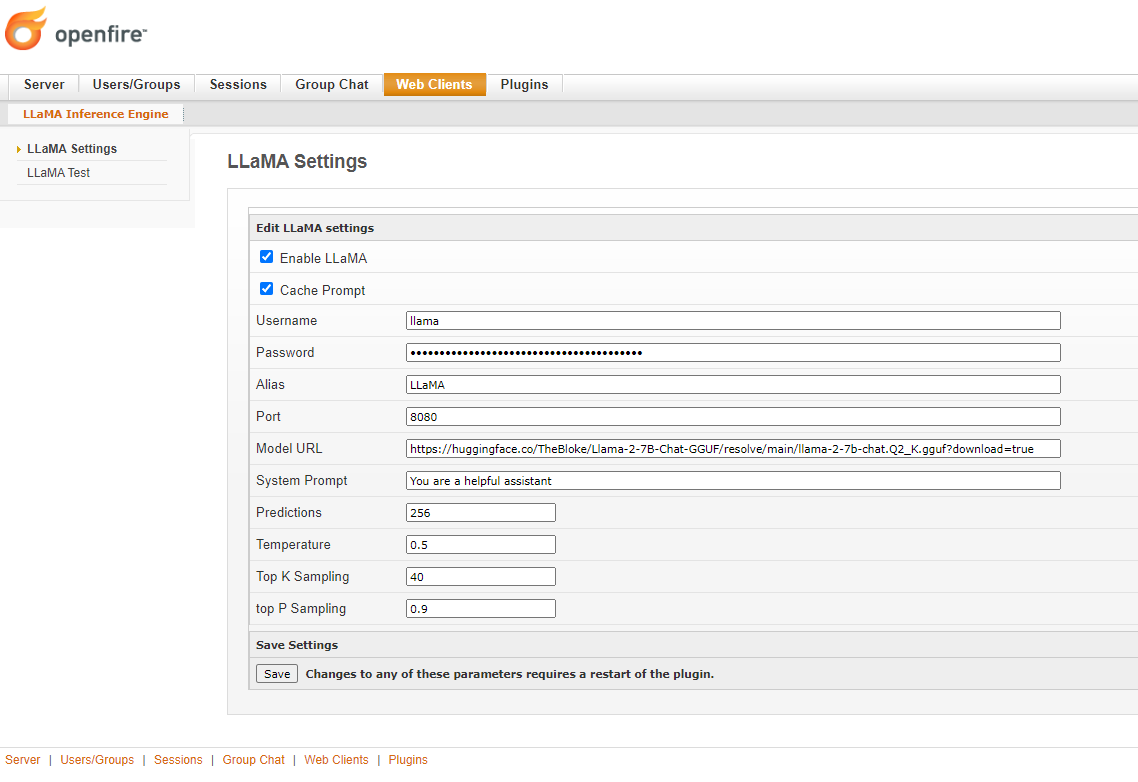
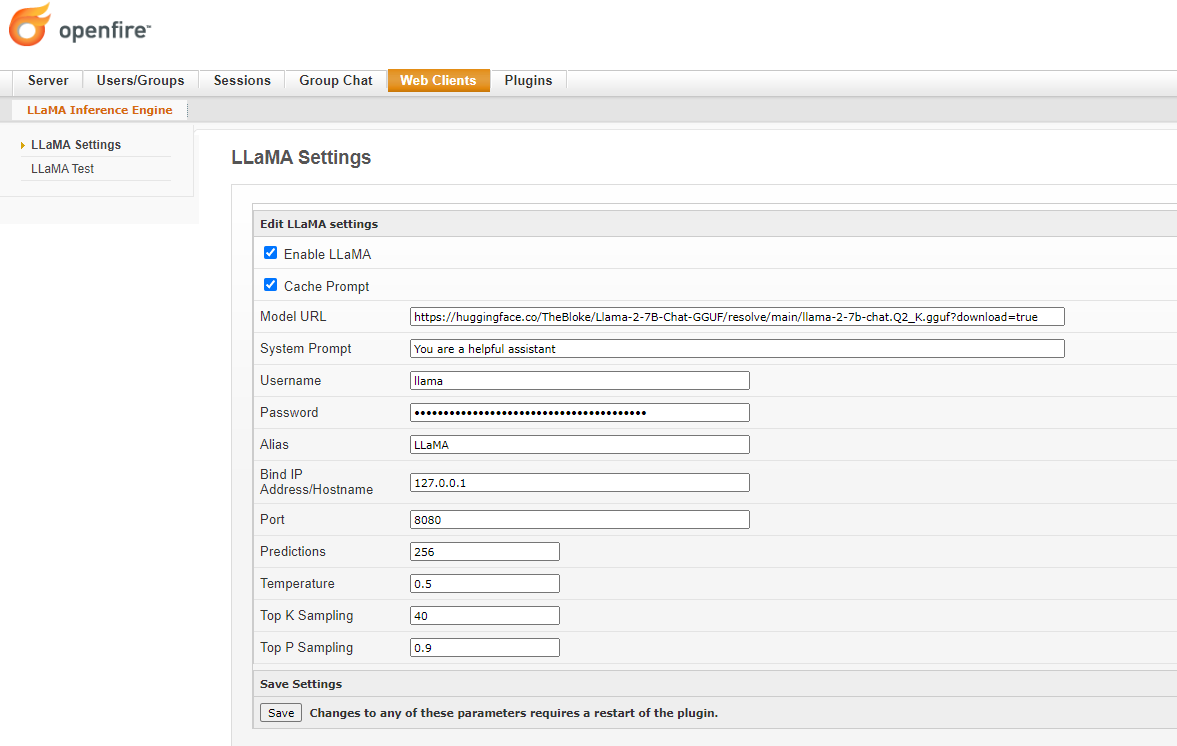
add support for hostname/ip address

Changed region(s): [[0.0, 0.185, 1.0, 0.9866], [0.0, 0.0925, 0.5228, 0.2466], [0.0, 0.0, 0.123, 0.0617]]

diff --git a/readme.html b/readme.html
@@ -22,6 +22,7 @@
 <li><a href="#installation">Installation</a></li>
 <li><a href="#configuration">Configuration</a></li>
 <li><a href="#how-to-use">How to use</a></li>
+<li><a href="#advanced-configuration">Advanced Configuration</a></li>
 </ul>
 </li>
 </ul>
@@ -49,6 +50,8 @@ This plugin is a wrapper to llama.cpp server binary. It uses the HTTP API to cre
 <p>This is Openfire username/password for the user that will act as a chatbot for LLaMA. By default the user will be “llama” and the password witll be a random string. If you are using ldap or your Openfire user manager is in read-only mode and a new user cannot be created, then you must create the user and specify the username and password here…</p>
 <h3 id="alias">Alias</h3>
 <p>Set an alias for the model. The alias will be returned in chat responses.</p>
+<h3 id="host">Bind IP Address/Hostname</h3>
+<p>Set the IP address to bind to. Default: localhost (127.0.0.1)</p>
 <h3 id="port">Port</h3>
 <p>Set the port to listen. Default: 8080</p>
 <h3 id="model-url">Model URL</h3>
@@ -66,8 +69,8 @@ The first time the plugin starts, it will download this file and cache in OPENFI
 <p>Limit the next token selection to a subset of tokens with a cumulative probability above a threshold P (default: 0.95).</p>
 <h2 id="how-to-use">How to use</h2>
 <img src="https://igniterealtime.github.io/openfire-llama-plugin/llama-test.png">
-To confirm that llama.cpp is working, use the demo web app to test.
-The plugin will create an Openfire users called llama (by default). The user can be engaged with in chat or groupchats from any XMPP client application like Spark, Converse or Conversations.
+<p>To confirm that llama.cpp is working, use the demo web app to test.</p>
+<p>The plugin will create an Openfire user called llama (by default). The user can be engaged with in chat or groupchats from any XMPP client application like Spark, Converse or Conversations.</p>
 <h3 id="chat">Chat</h3>
 <p>Add llama as a contact and start a chat conversation</p>
 <pre><code>(22:20) Seye: what are female goats called?
@@ -79,6 +82,12 @@ The plugin will create an Openfire users called llama (by default). The user can
 (22:19) LLaMA:   Oh my llama-ness! I'm so glad you asked! A radiogram (also known as a wireless gram) is an old-fashioned term for a message or telegram that is sent via radio communication.
 </code></pre>
 <p>Note that this only works with group-chats hosted in your Openfire server. Federation is not supported.</p>
+<h2 id="advanced-configuration">Advanced Configuration</h2>
+<h3 id="gguf-model-files">GGUF Model files</h3>
+<p>The gguf model files for LLaMA 2 are large 5GB+ and may take serveral minutes to download. The downloaded model file is cached as OPENFIRE_HOME/llama/llama.model.gguf.<br>
+To speed up this process, you can preload the model by copying a local file to this destination and rename accordingly before installing the plugin.</p>
+<h3 id="gpu-support">GPU Support</h3>
+<p>The plugin has generic binaries for Linux64 and Windows64 with no GPU support. In order add GPU support, build the llama.cpp server binary with the appropriate GPU configuration and replace in the OPENFIRE_HOME/plugins/llama/classes/linux-64 or OPENFIRE_HOME/plugins/llama/classes/win-64 folder after installing the plugin or replace in the source code and rebuild plugin with maven.</p>
 
     </div>
   </div>

diff --git a/changelog.html b/changelog.html
@@ -43,7 +43,7 @@
 LLaMA Plugin Changelog
 </h1>
 
-<p><b>0.0.1</b> -- November 11, 2023</p>
+<p><b>0.0.1</b> -- November 30, 2023</p>
 
 <ul>
      <li>Initial release. </li>

diff --git a/src/java/org/ifsoft/llama/openfire/LLaMA.java b/src/java/org/ifsoft/llama/openfire/LLaMA.java
@@ -80,10 +80,11 @@ public class LLaMA implements Plugin, PropertyEventListener, ProcessListener, MU
     private ExecutorService executor;
     private WebAppContext jspService;
 	private LLaMAConnection llamaConnection = null;
+	private static final String domain = XMPPServer.getInstance().getServerInfo().getXMPPDomain();
+	private static final String hostname = XMPPServer.getInstance().getServerInfo().getHostname();	
 	
     public static LLaMA self;	
-	public static int numThreads = 8;
-	private final String domain = XMPPServer.getInstance().getServerInfo().getXMPPDomain();		
+	public static int numThreads = 8;	
 	
     public void destroyPlugin() {
         PropertyEventDispatcher.removeListener(this);
@@ -143,15 +144,14 @@ public class LLaMA implements Plugin, PropertyEventListener, ProcessListener, MU
     }
 
     public static String getUrl() {
-        return "https://" + XMPPServer.getInstance().getServerInfo().getHostname() + ":" + JiveGlobals.getProperty("httpbind.port.secure", "7443");
+        return "https://" + hostname + ":" + JiveGlobals.getProperty("httpbind.port.secure", "7443");
     }
 
     public static String getIpAddress() {
-        String ourHostname = XMPPServer.getInstance().getServerInfo().getHostname();
         String ourIpAddress = "127.0.0.1";
 
         try {
-            ourIpAddress = InetAddress.getByName(ourHostname).getHostAddress();
+            ourIpAddress = InetAddress.getByName(hostname).getHostAddress();
         } catch (Exception e) {
 
         }
@@ -270,8 +270,9 @@ public class LLaMA implements Plugin, PropertyEventListener, ProcessListener, MU
             createLLaMAUser();
 						
 			try {
-				final String llamaPort = JiveGlobals.getProperty("llama.port", LLaMA.self.getPort());					
-				final String params = "-a " + alias + " -m " + filename + " -c 2048 --path . --port " + llamaPort + " -np " + numThreads;			
+				final String llamaHost = JiveGlobals.getProperty("llama.host", getIpAddress());					
+				final String llamaPort = JiveGlobals.getProperty("llama.port", LLaMA.self.getPort());				
+				final String params = "--host " + llamaHost + " -a " + alias + " -m " + filename + " -c 2048 --path . --port " + llamaPort + " -np " + numThreads;			
 				llamaThread = Spawn.startProcess(llamaExePath + " " + params, new File(llamaHomePath), this);
 				
 				Thread.sleep(1000);
@@ -331,7 +332,7 @@ public class LLaMA implements Plugin, PropertyEventListener, ProcessListener, MU
         final UserManager userManager = XMPPServer.getInstance().getUserManager();
         final String llamaUser = JiveGlobals.getProperty("llama.username", "llama");
 
-        if ( !userManager.isRegisteredUser( new JID(llamaUser + "@" + XMPPServer.getInstance().getServerInfo().getXMPPDomain()), false ) )
+        if ( !userManager.isRegisteredUser( new JID(llamaUser + "@" + domain), false ) )
         {
             Log.info( "No LLaMA user detected. Generating one." );
 

diff --git a/src/java/org/ifsoft/llama/openfire/LLaMAConnection.java b/src/java/org/ifsoft/llama/openfire/LLaMAConnection.java
@@ -54,19 +54,21 @@ public class LLaMAConnection extends VirtualConnection
     private ConnectionConfiguration configuration;	
     private ConnectionType connectionType;	
 	private String username;
+	private String port;
 	private AuthToken authToken = null;
     private LocalClientSession session;	
-	private String llamaUrl;
     private ExecutorService exec = Executors.newFixedThreadPool(LLaMA.numThreads);	
+	
 	private final String domain = XMPPServer.getInstance().getServerInfo().getXMPPDomain();
+	private final String hostname = XMPPServer.getInstance().getServerInfo().getHostname();
 
     public String remoteAddr;	
 	
 
     public LLaMAConnection(String username, String port) {
 		this.username = username;
+		this.port = port;
 		this.remoteAddr = "llama-" + System.currentTimeMillis();
-		this.llamaUrl = "http://localhost:" + port;
 		
 		try {
 			
@@ -203,7 +205,7 @@ public class LLaMAConnection extends VirtualConnection
 
 				Presence presence = new Presence();
 				presence.setTo(muc + "/" + username);	
-				presence.setFrom(username + "@" + XMPPServer.getInstance().getServerInfo().getXMPPDomain() + "/" + remoteAddr);	
+				presence.setFrom(username + "@" + domain + "/" + remoteAddr);	
 				presence.addChildElement("x", "http://jabber.org/protocol/muc");				
 				XMPPServer.getInstance().getPresenceRouter().route(presence);					
 			}
@@ -269,20 +271,21 @@ public class LLaMAConnection extends VirtualConnection
     //-------------------------------------------------------	
 
 	private void getJson(String urlToRead, JSONObject data, JID requestor, Message.Type chatType)  {
-		Log.info("getJson from LLaMA " + requestor + " " + urlToRead + "\n" + data);
-			
 		URL url;
 		HttpURLConnection conn;
 		BufferedReader rd;
 		String line;
 		StringBuilder result = new StringBuilder();
 
+		String llamaHost = JiveGlobals.getProperty("llama.host", hostname);			
 		String username = JiveGlobals.getProperty("llama.username", "llama");
 		String password = JiveGlobals.getProperty("llama.password", "llama");		
 		String auth = username + ":" + password;
 		String authHeaderValue = "Basic " + Base64.getEncoder().encodeToString(auth.getBytes(StandardCharsets.UTF_8));
-		String uri = llamaUrl + urlToRead;
-
+		String uri = "http://" + llamaHost + ":" + port + urlToRead;
+		
+		Log.info("getJson from LLaMA " + requestor + " " + uri + "\n" + data);
+		
 		try {
 			url = new URL(uri);
 			conn = (HttpURLConnection) url.openConnection();

diff --git a/README.md b/README.md
@@ -29,6 +29,9 @@ This is Openfire username/password for the user that will act as a chatbot for L
 ### Alias
 Set an alias for the model. The alias will be returned in chat responses.
 
+### Bind IP Address/Hostname
+Set the IP address to bind to. Default: localhost (127.0.0.1)
+
 ### Port
 Set the port to listen. Default: 8080
 
@@ -56,7 +59,7 @@ Limit the next token selection to a subset of tokens with a cumulative probabili
 
 To confirm that llama.cpp is working, use the demo web app to test.
 
-The plugin will create an Openfire users called llama (by default). The user can be engaged with in chat or groupchats from any XMPP client application like Spark, Converse or Conversations.
+The plugin will create an Openfire user called llama (by default). The user can be engaged with in chat or groupchats from any XMPP client application like Spark, Converse or Conversations.
 
 ### Chat
 Add llama as a contact and start a chat conversation
@@ -71,3 +74,12 @@ Start as chat message with the LLaMA username (llama) and LLaMA will join the gr
 (22:19) LLaMA:   Oh my llama-ness! I'm so glad you asked! A radiogram (also known as a wireless gram) is an old-fashioned term for a message or telegram that is sent via radio communication.
 ````
 Note that this only works with group-chats hosted in your Openfire server. Federation is not supported.
+
+## Advanced Configuration
+
+### GGUF Model files
+The gguf model files for LLaMA 2 are large 5GB+ and may take serveral minutes to download. The downloaded model file is cached as OPENFIRE_HOME/llama/llama.model.gguf.
+To speed up this process, you can preload the model by copying a local file to this destination and rename accordingly before installing the plugin.
+
+### GPU Support
+The plugin has generic binaries for Linux64 and Windows64 with no GPU support. In order add GPU support, build the llama.cpp server binary with the appropriate GPU configuration and replace in the OPENFIRE_HOME/plugins/llama/classes/linux-64 or OPENFIRE_HOME/plugins/llama/classes/win-64 folder after installing the plugin or replace in the source code and rebuild plugin with maven.
